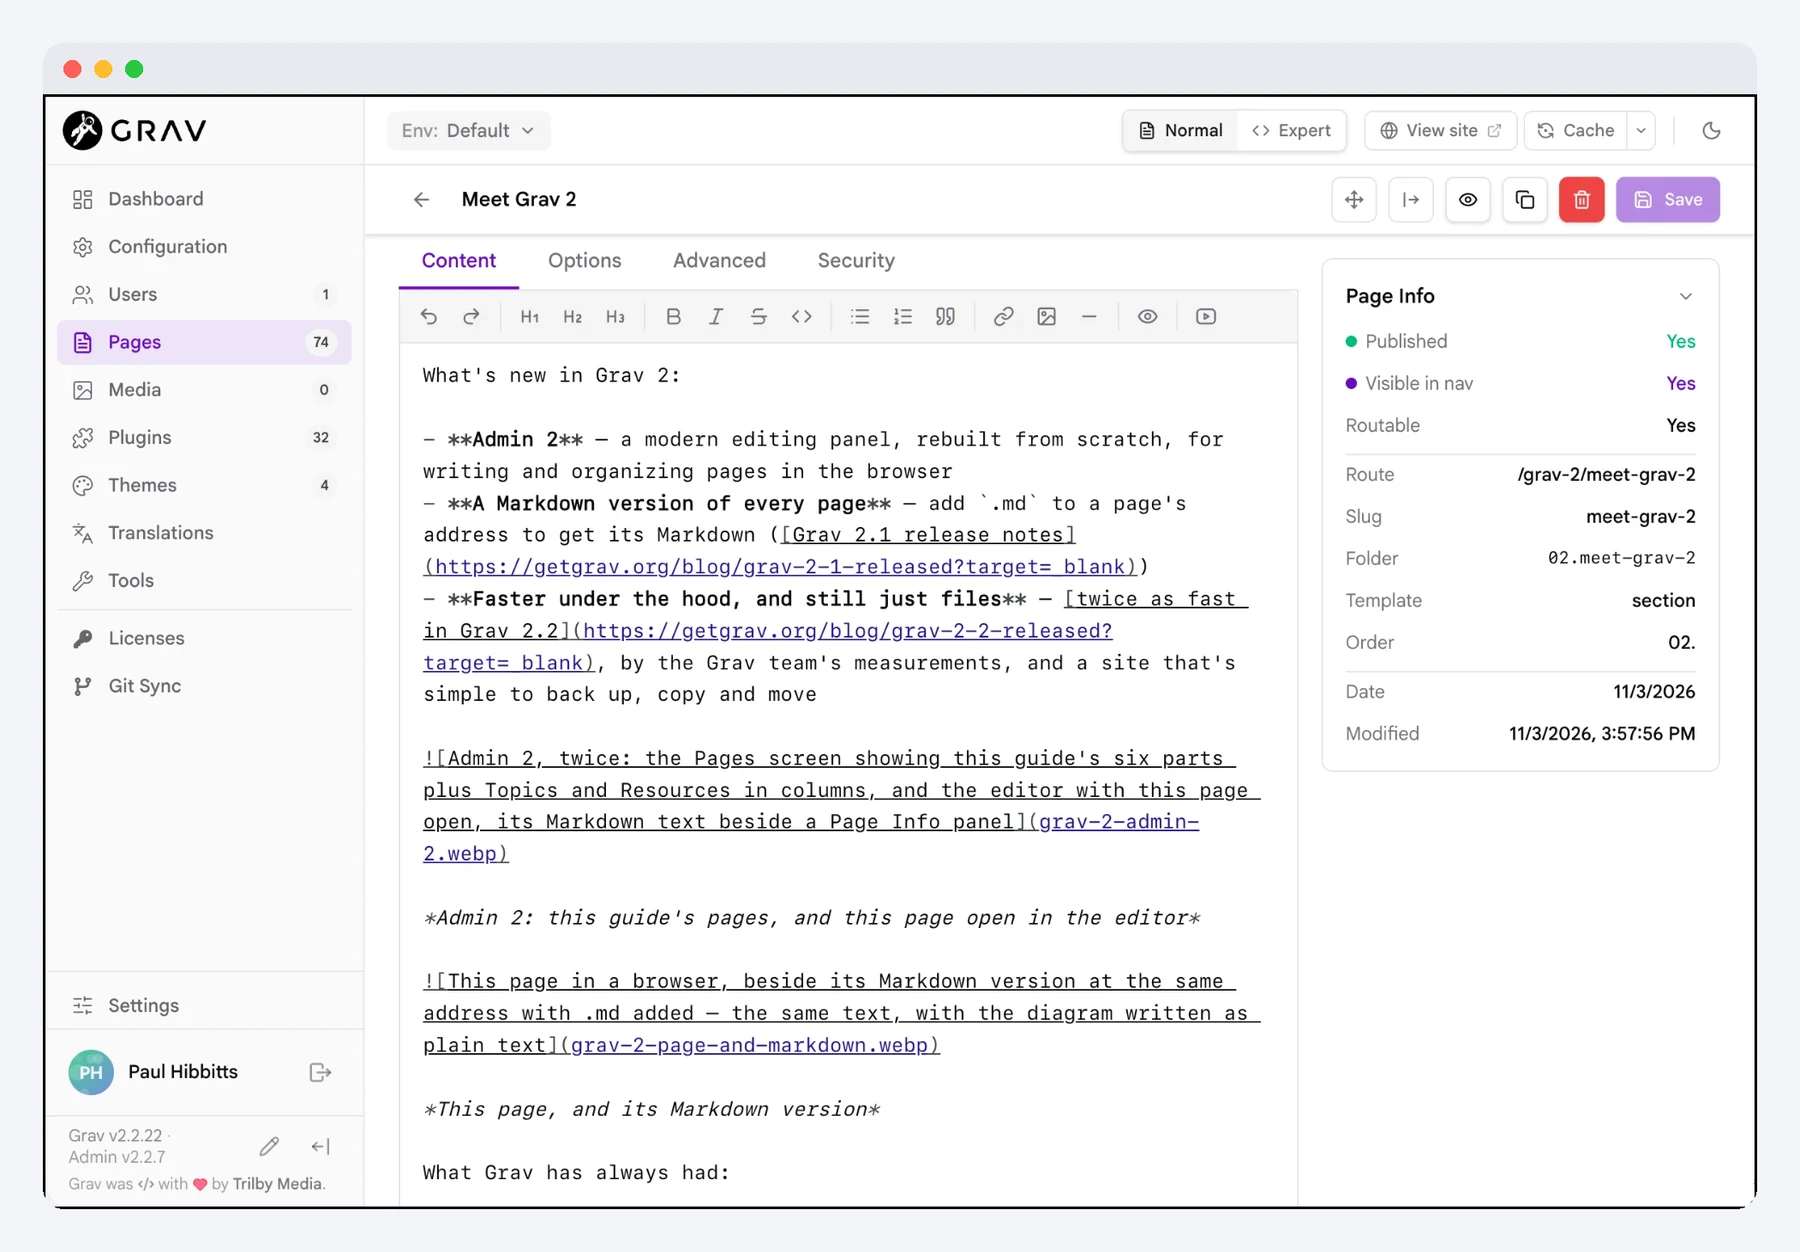
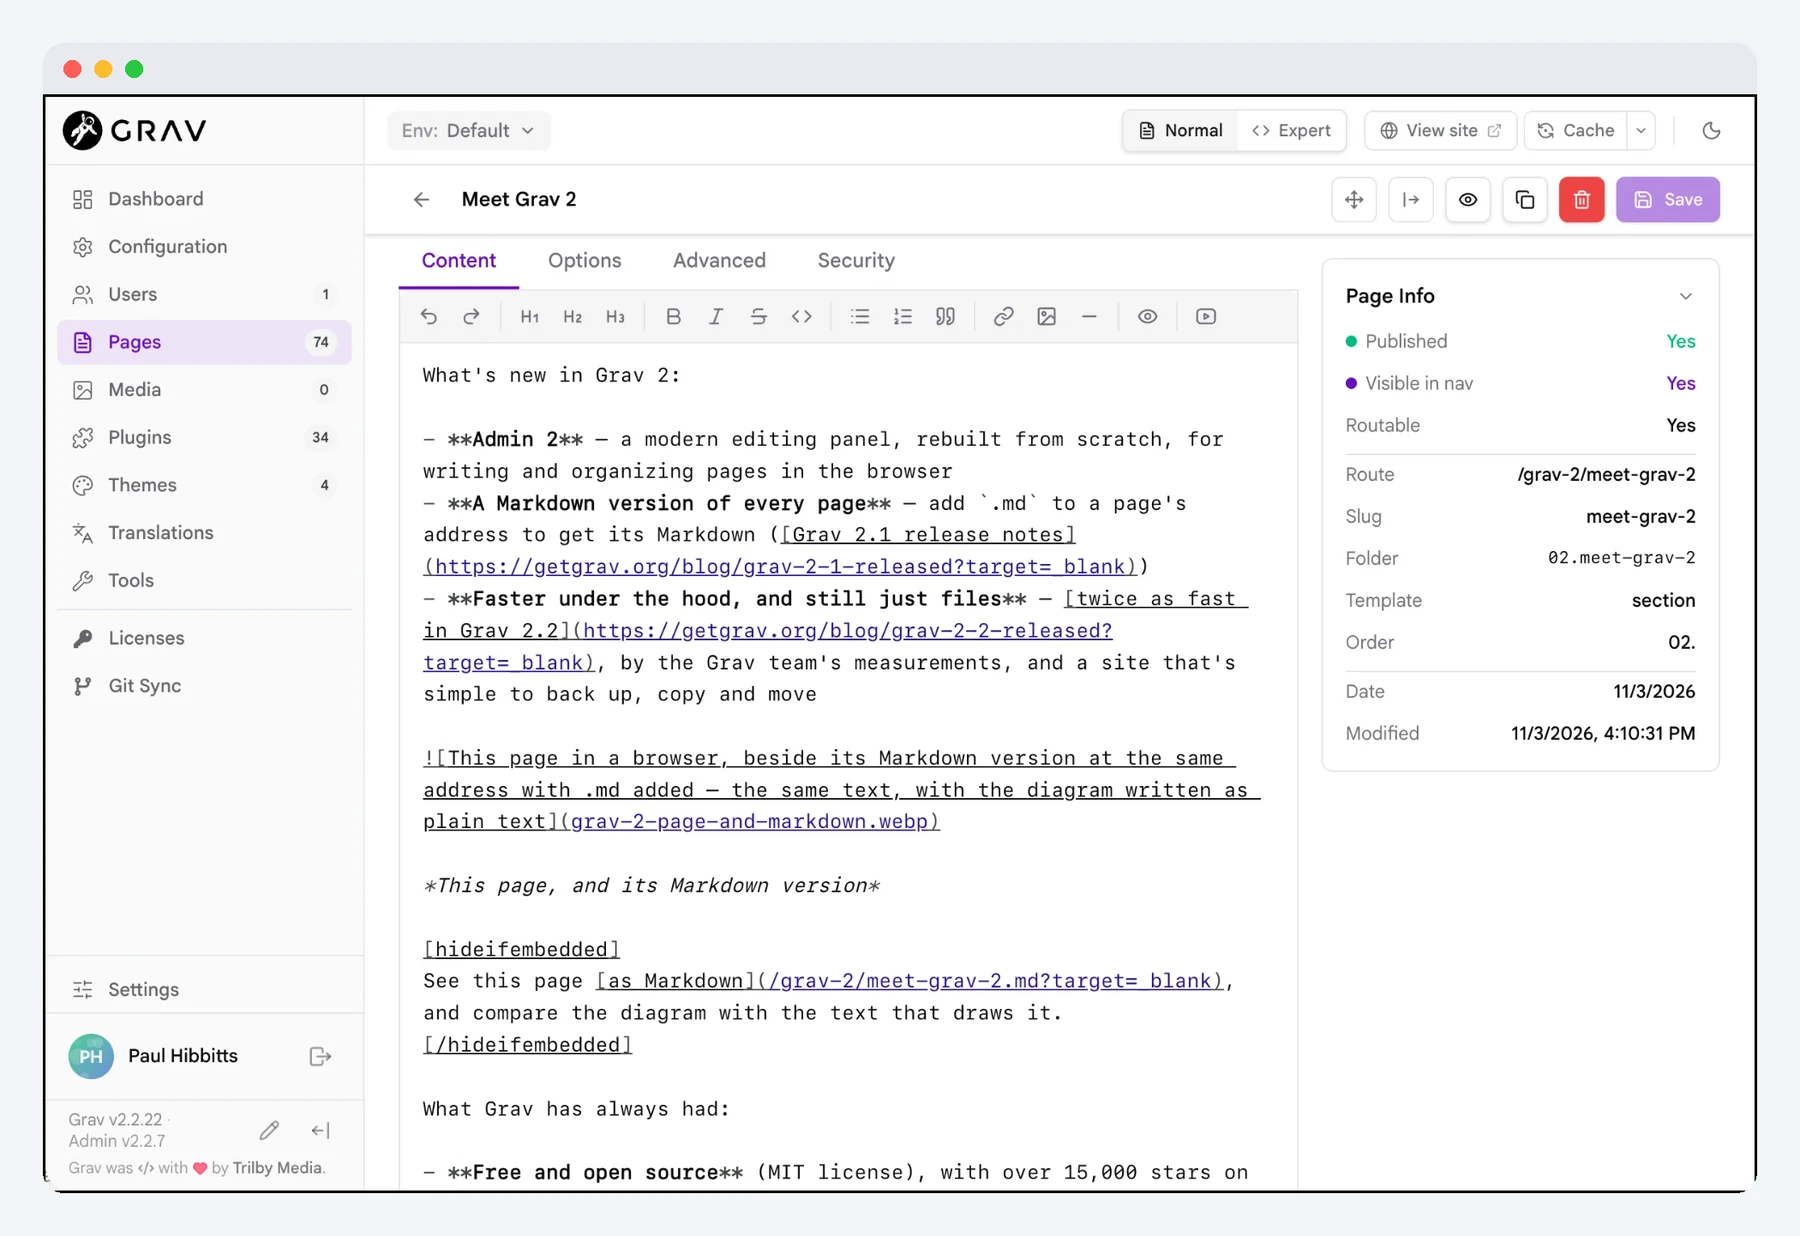
Content updates.

diff --git a/pages/05.grav-2/02.meet-grav-2/section.md b/pages/05.grav-2/02.meet-grav-2/section.md
@@ -40,15 +40,15 @@ What Grav has always had:
 - **Themes and plugins** for search, feeds, forms, several languages and more
 - **Runs on a standard web host** – no special server setup
 
-And this is Admin 2, where pages like this one are organized and written:
-
-![The Admin 2 Pages screen, showing this guide's six parts plus Topics and Resources in columns, with this page selected and its details beside them](grav-2-admin-2-pages.webp)
-
-*Admin 2: this guide's pages*
+And this is Admin 2, where pages like this one are written and previewed:
 
 ![The Admin 2 editor with this page open, showing its What's new list as Markdown, beside a Page Info panel](grav-2-admin-2-editor.webp)
 
 *This page, open in the Admin 2 editor*
+
+![Admin 2's Page Preview window, showing this page's What's new list formatted as readers see it, with the guide's sidebar beside it](grav-2-admin-2-preview.webp)
+
+*The same page in Admin 2's Page Preview*
 
 [hideifembedded]
 Try the Admin 2 panel: read-only demos for [Open Publishing Space](https://try.hibbittsdesign.org/grav-skeleton-open-publishing-space/admin?target=_blank) and [Open Course Hub](https://try.hibbittsdesign.org/grav-skeleton-course-hub/admin?target=_blank) (the sign-in details are on their sign-in screens).
